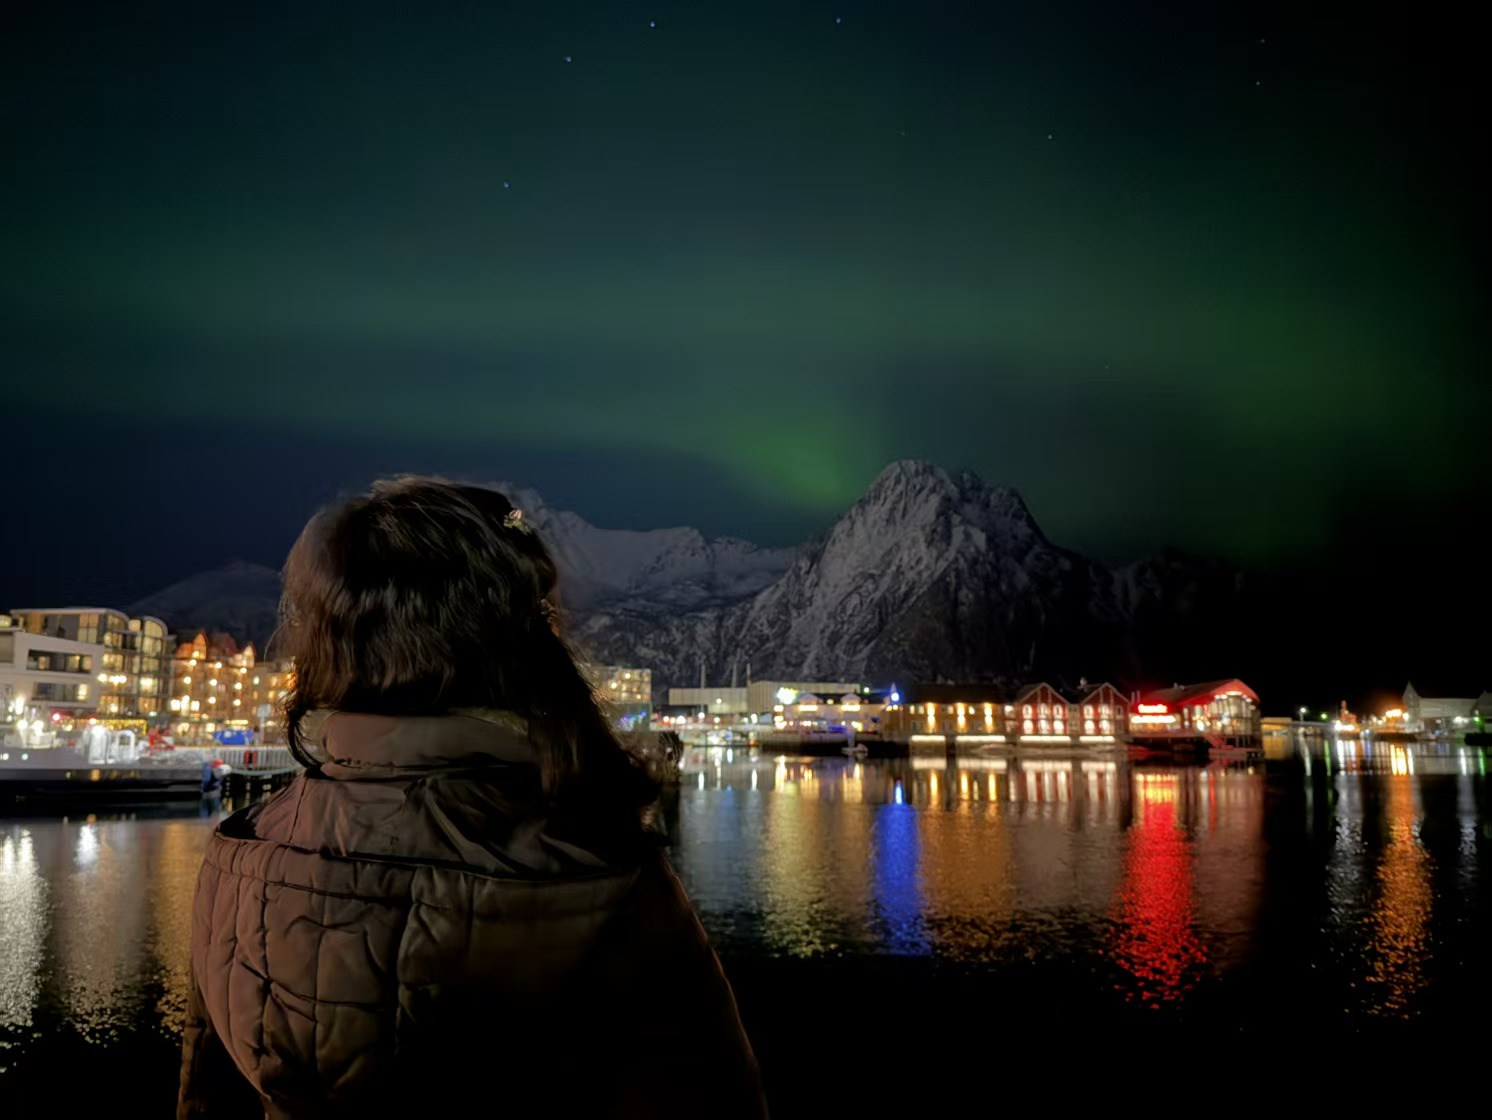
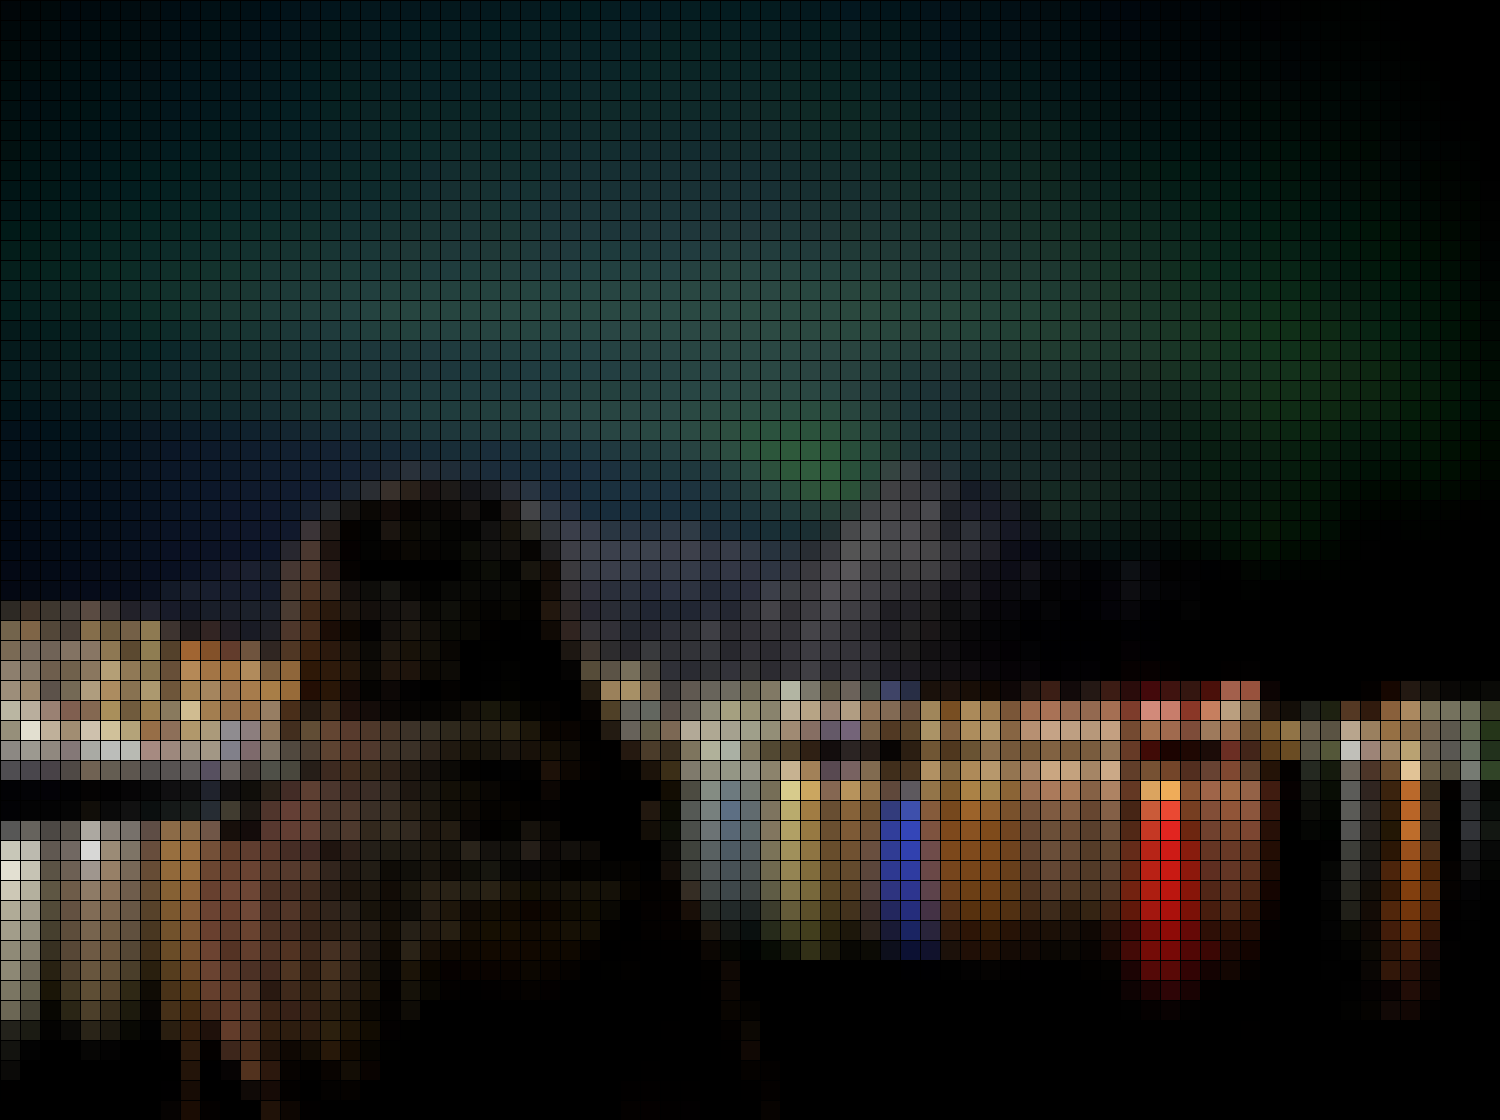
Site updated: 2025-08-12 14:08:30

diff --git a/about/index.html b/about/index.html
@@ -16,12 +16,12 @@
   <meta name="author" content="Lam Ho">
   <meta name="keywords" content="">
   
-    <meta name="description" content="Wechat: linkelaqEmail: &amp;#x6c;&amp;#105;&amp;#110;&amp;#107;&amp;#101;&amp;#46;&amp;#99;&amp;#104;&amp;#108;&amp;#111;&amp;#x65;&amp;#64;&amp;#x67;&amp;#x6d;&amp;#x61;&amp;#105;&amp;#108;&amp;#x2e;&amp;#99;&amp;#111;&amp;#x6d;Instagram: holadorable">
+    <meta name="description" content="Wechat: linkelaqEmail: &amp;#x6c;&amp;#105;&amp;#110;&amp;#107;&amp;#x65;&amp;#x2e;&amp;#99;&amp;#x68;&amp;#108;&amp;#x6f;&amp;#x65;&amp;#64;&amp;#103;&amp;#x6d;&amp;#97;&amp;#x69;&amp;#x6c;&amp;#46;&amp;#x63;&amp;#111;&amp;#x6d;Instagram: holadorable">
 <meta property="og:type" content="website">
 <meta property="og:title" content="About me">
 <meta property="og:url" content="https://lamho-bienetre.github.io/about/index.html">
 <meta property="og:site_name" content="Always remember me this way">
-<meta property="og:description" content="Wechat: linkelaqEmail: &amp;#x6c;&amp;#105;&amp;#110;&amp;#107;&amp;#101;&amp;#46;&amp;#99;&amp;#104;&amp;#108;&amp;#111;&amp;#x65;&amp;#64;&amp;#x67;&amp;#x6d;&amp;#x61;&amp;#105;&amp;#108;&amp;#x2e;&amp;#99;&amp;#111;&amp;#x6d;Instagram: holadorable">
+<meta property="og:description" content="Wechat: linkelaqEmail: &amp;#x6c;&amp;#105;&amp;#110;&amp;#107;&amp;#x65;&amp;#x2e;&amp;#99;&amp;#x68;&amp;#108;&amp;#x6f;&amp;#x65;&amp;#64;&amp;#103;&amp;#x6d;&amp;#97;&amp;#x69;&amp;#x6c;&amp;#46;&amp;#x63;&amp;#111;&amp;#x6d;Instagram: holadorable">
 <meta property="og:locale" content="en_US">
 <meta property="article:published_time" content="2025-04-10T12:00:00.000Z">
 <meta property="article:modified_time" content="2025-07-08T03:06:26.161Z">
@@ -88,7 +88,7 @@
   <nav id="navbar" class="navbar fixed-top  navbar-expand-lg navbar-dark scrolling-navbar">
   <div class="container">
     <a class="navbar-brand" href="/">
-      <strong>Always remember me this way</strong>
+      <strong>Life’s Mosaic</strong>
     </a>
 
     <button id="navbar-toggler-btn" class="navbar-toggler" type="button" data-toggle="collapse"
@@ -218,7 +218,7 @@
                 
 
 <article class="page-content">
-  <p>Wechat: linkelaq<br>Email: <a href="mailto:&#x6c;&#105;&#110;&#107;&#101;&#46;&#99;&#104;&#108;&#111;&#x65;&#64;&#x67;&#x6d;&#x61;&#105;&#108;&#x2e;&#99;&#111;&#x6d;">&#x6c;&#105;&#110;&#107;&#101;&#46;&#99;&#104;&#108;&#111;&#x65;&#64;&#x67;&#x6d;&#x61;&#105;&#108;&#x2e;&#99;&#111;&#x6d;</a><br>Instagram: holadorable</p>
+  <p>Wechat: linkelaq<br>Email: <a href="mailto:&#x6c;&#105;&#110;&#107;&#x65;&#x2e;&#99;&#x68;&#108;&#x6f;&#x65;&#64;&#103;&#x6d;&#97;&#x69;&#x6c;&#46;&#x63;&#111;&#x6d;">&#x6c;&#105;&#110;&#107;&#x65;&#x2e;&#99;&#x68;&#108;&#x6f;&#x65;&#64;&#103;&#x6d;&#97;&#x69;&#x6c;&#46;&#x63;&#111;&#x6d;</a><br>Instagram: holadorable</p>
 
 
   

diff --git a/404.html b/404.html
@@ -84,7 +84,7 @@
   <nav id="navbar" class="navbar fixed-top  navbar-expand-lg navbar-dark scrolling-navbar">
   <div class="container">
     <a class="navbar-brand" href="/">
-      <strong>Always remember me this way</strong>
+      <strong>Life’s Mosaic</strong>
     </a>
 
     <button id="navbar-toggler-btn" class="navbar-toggler" type="button" data-toggle="collapse"

diff --git a/archives/2025/05/index.html b/archives/2025/05/index.html
@@ -84,7 +84,7 @@
   <nav id="navbar" class="navbar fixed-top  navbar-expand-lg navbar-dark scrolling-navbar">
   <div class="container">
     <a class="navbar-brand" href="/">
-      <strong>Always remember me this way</strong>
+      <strong>Life’s Mosaic</strong>
     </a>
 
     <button id="navbar-toggler-btn" class="navbar-toggler" type="button" data-toggle="collapse"

diff --git a/archives/2025/06/index.html b/archives/2025/06/index.html
@@ -84,7 +84,7 @@
   <nav id="navbar" class="navbar fixed-top  navbar-expand-lg navbar-dark scrolling-navbar">
   <div class="container">
     <a class="navbar-brand" href="/">
-      <strong>Always remember me this way</strong>
+      <strong>Life’s Mosaic</strong>
     </a>
 
     <button id="navbar-toggler-btn" class="navbar-toggler" type="button" data-toggle="collapse"

diff --git a/archives/2025/07/index.html b/archives/2025/07/index.html
@@ -84,7 +84,7 @@
   <nav id="navbar" class="navbar fixed-top  navbar-expand-lg navbar-dark scrolling-navbar">
   <div class="container">
     <a class="navbar-brand" href="/">
-      <strong>Always remember me this way</strong>
+      <strong>Life’s Mosaic</strong>
     </a>
 
     <button id="navbar-toggler-btn" class="navbar-toggler" type="button" data-toggle="collapse"

diff --git a/archives/2025/index.html b/archives/2025/index.html
@@ -84,7 +84,7 @@
   <nav id="navbar" class="navbar fixed-top  navbar-expand-lg navbar-dark scrolling-navbar">
   <div class="container">
     <a class="navbar-brand" href="/">
-      <strong>Always remember me this way</strong>
+      <strong>Life’s Mosaic</strong>
     </a>
 
     <button id="navbar-toggler-btn" class="navbar-toggler" type="button" data-toggle="collapse"

diff --git a/archives/index.html b/archives/index.html
@@ -84,7 +84,7 @@
   <nav id="navbar" class="navbar fixed-top  navbar-expand-lg navbar-dark scrolling-navbar">
   <div class="container">
     <a class="navbar-brand" href="/">
-      <strong>Always remember me this way</strong>
+      <strong>Life’s Mosaic</strong>
     </a>
 
     <button id="navbar-toggler-btn" class="navbar-toggler" type="button" data-toggle="collapse"

diff --git a/categories/Feed/index.html b/categories/Feed/index.html
@@ -84,7 +84,7 @@
   <nav id="navbar" class="navbar fixed-top  navbar-expand-lg navbar-dark scrolling-navbar">
   <div class="container">
     <a class="navbar-brand" href="/">
-      <strong>Always remember me this way</strong>
+      <strong>Life’s Mosaic</strong>
     </a>
 
     <button id="navbar-toggler-btn" class="navbar-toggler" type="button" data-toggle="collapse"

diff --git a/categories/Journey/index.html b/categories/Journey/index.html
@@ -84,7 +84,7 @@
   <nav id="navbar" class="navbar fixed-top  navbar-expand-lg navbar-dark scrolling-navbar">
   <div class="container">
     <a class="navbar-brand" href="/">
-      <strong>Always remember me this way</strong>
+      <strong>Life’s Mosaic</strong>
     </a>
 
     <button id="navbar-toggler-btn" class="navbar-toggler" type="button" data-toggle="collapse"

diff --git a/categories/Moments/index.html b/categories/Moments/index.html
@@ -84,7 +84,7 @@
   <nav id="navbar" class="navbar fixed-top  navbar-expand-lg navbar-dark scrolling-navbar">
   <div class="container">
     <a class="navbar-brand" href="/">
-      <strong>Always remember me this way</strong>
+      <strong>Life’s Mosaic</strong>
     </a>
 
     <button id="navbar-toggler-btn" class="navbar-toggler" type="button" data-toggle="collapse"

diff --git a/categories/Tech-Life/index.html b/categories/Tech-Life/index.html
@@ -84,7 +84,7 @@
   <nav id="navbar" class="navbar fixed-top  navbar-expand-lg navbar-dark scrolling-navbar">
   <div class="container">
     <a class="navbar-brand" href="/">
-      <strong>Always remember me this way</strong>
+      <strong>Life’s Mosaic</strong>
     </a>
 
     <button id="navbar-toggler-btn" class="navbar-toggler" type="button" data-toggle="collapse"

diff --git a/categories/index.html b/categories/index.html
@@ -84,7 +84,7 @@
   <nav id="navbar" class="navbar fixed-top  navbar-expand-lg navbar-dark scrolling-navbar">
   <div class="container">
     <a class="navbar-brand" href="/">
-      <strong>Always remember me this way</strong>
+      <strong>Life’s Mosaic</strong>
     </a>
 
     <button id="navbar-toggler-btn" class="navbar-toggler" type="button" data-toggle="collapse"
